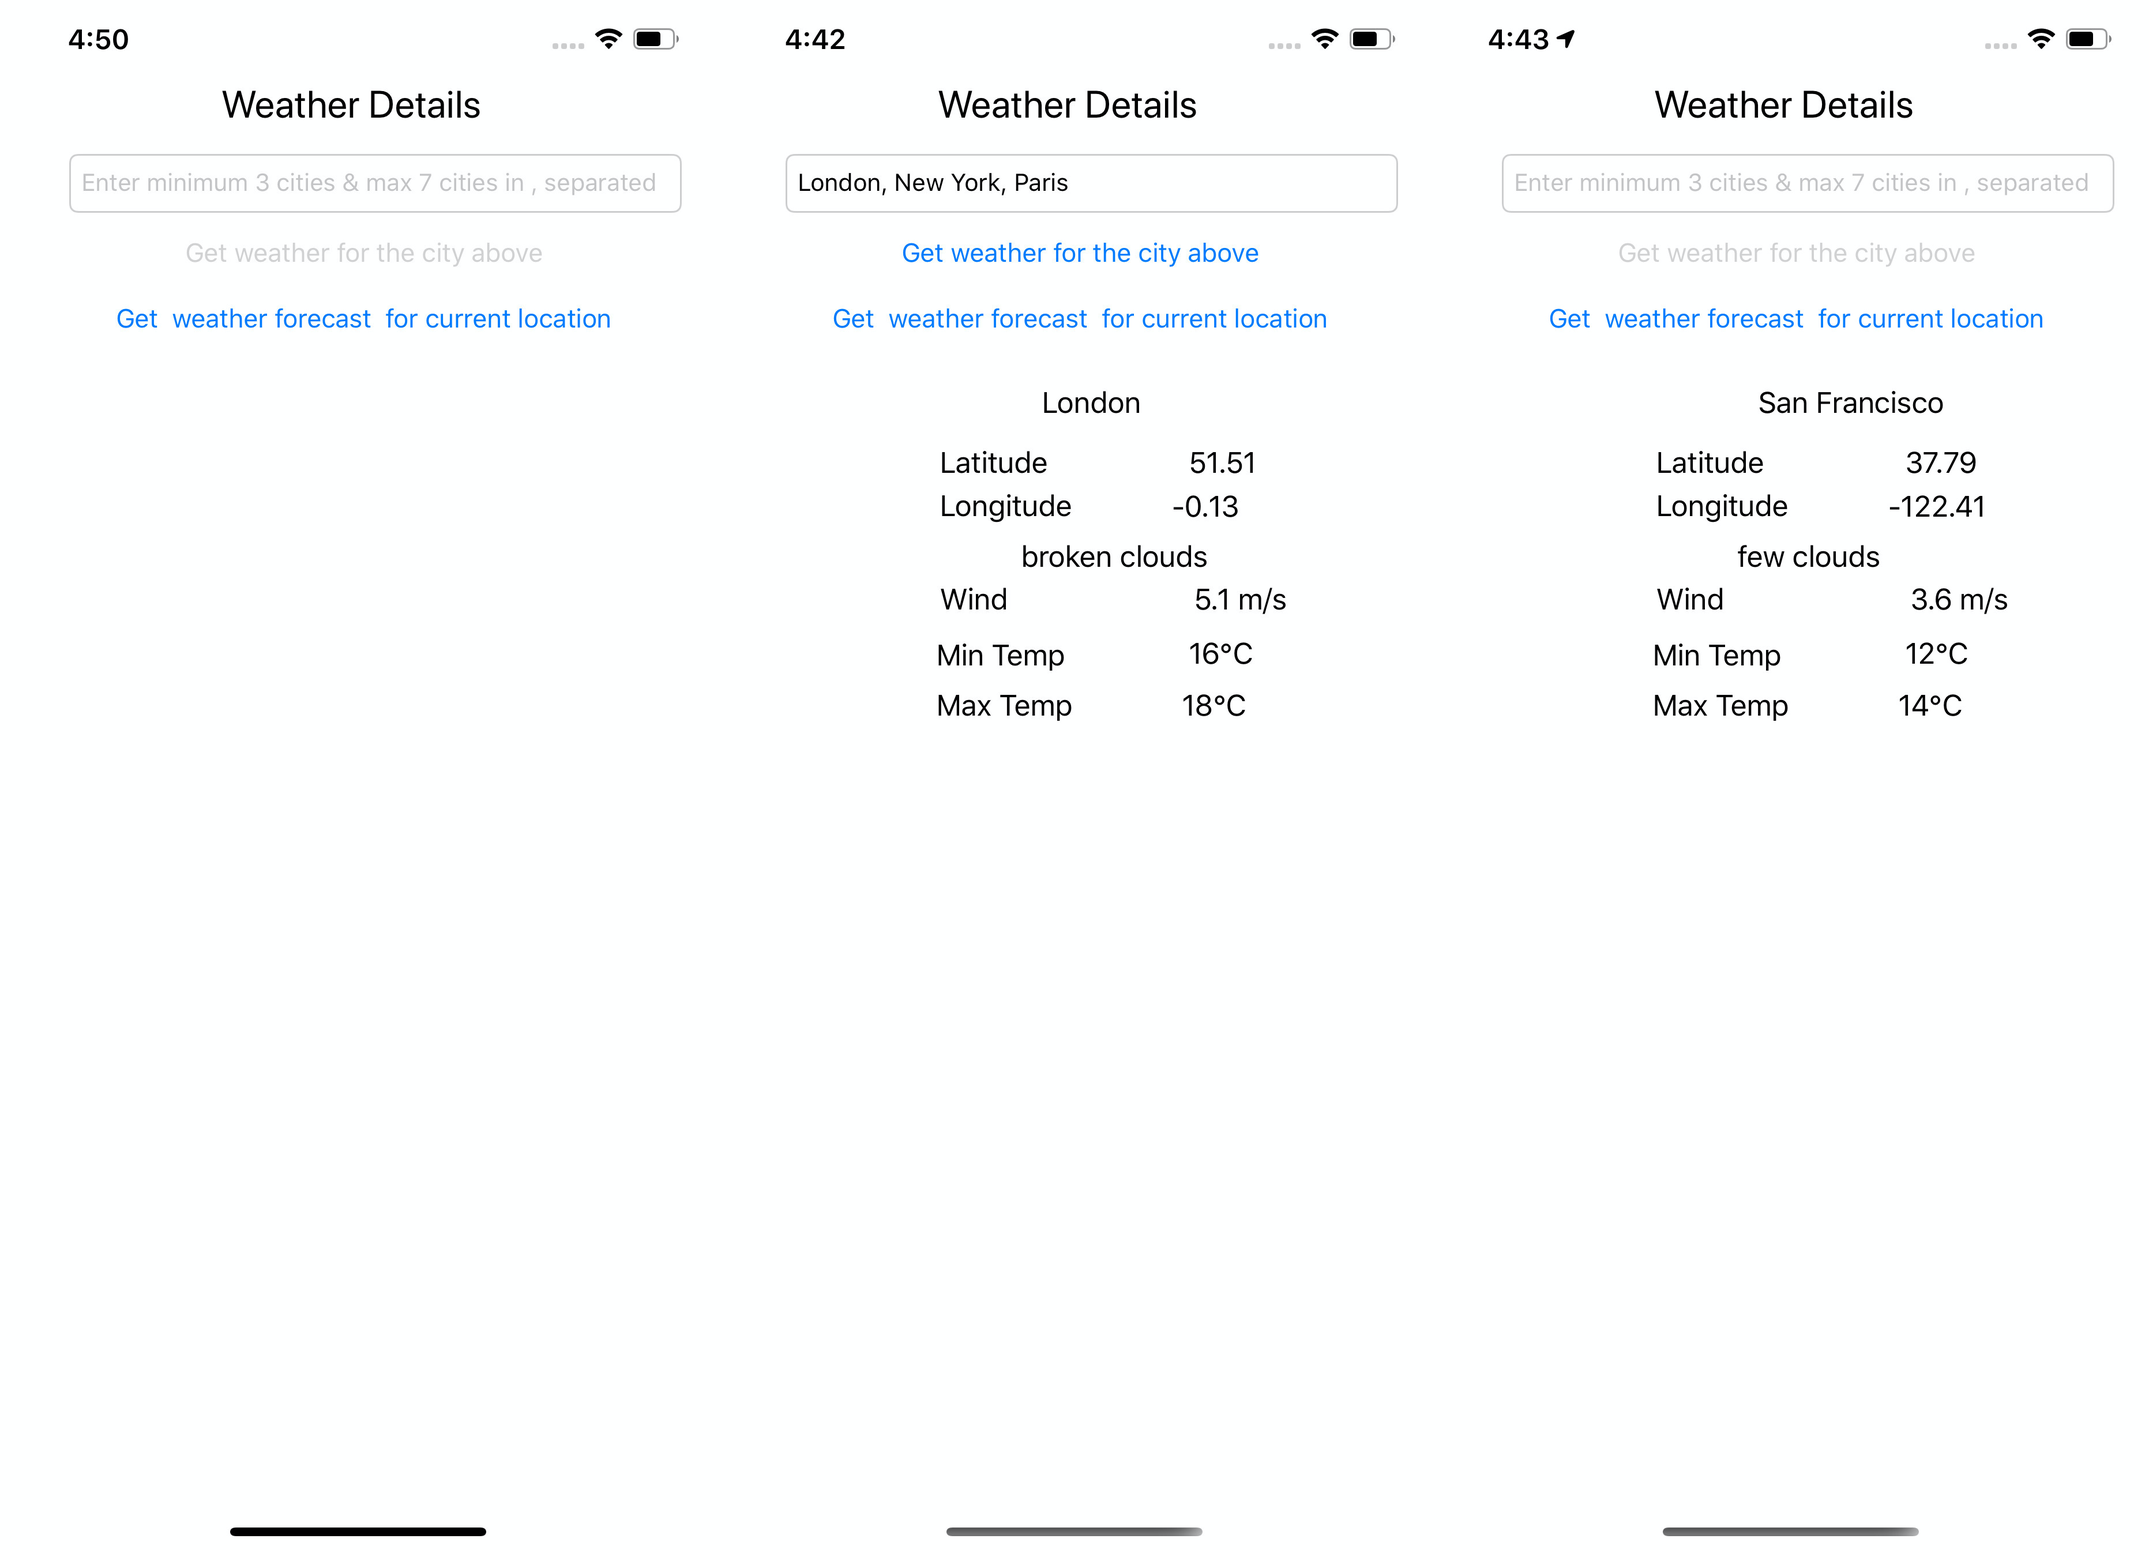
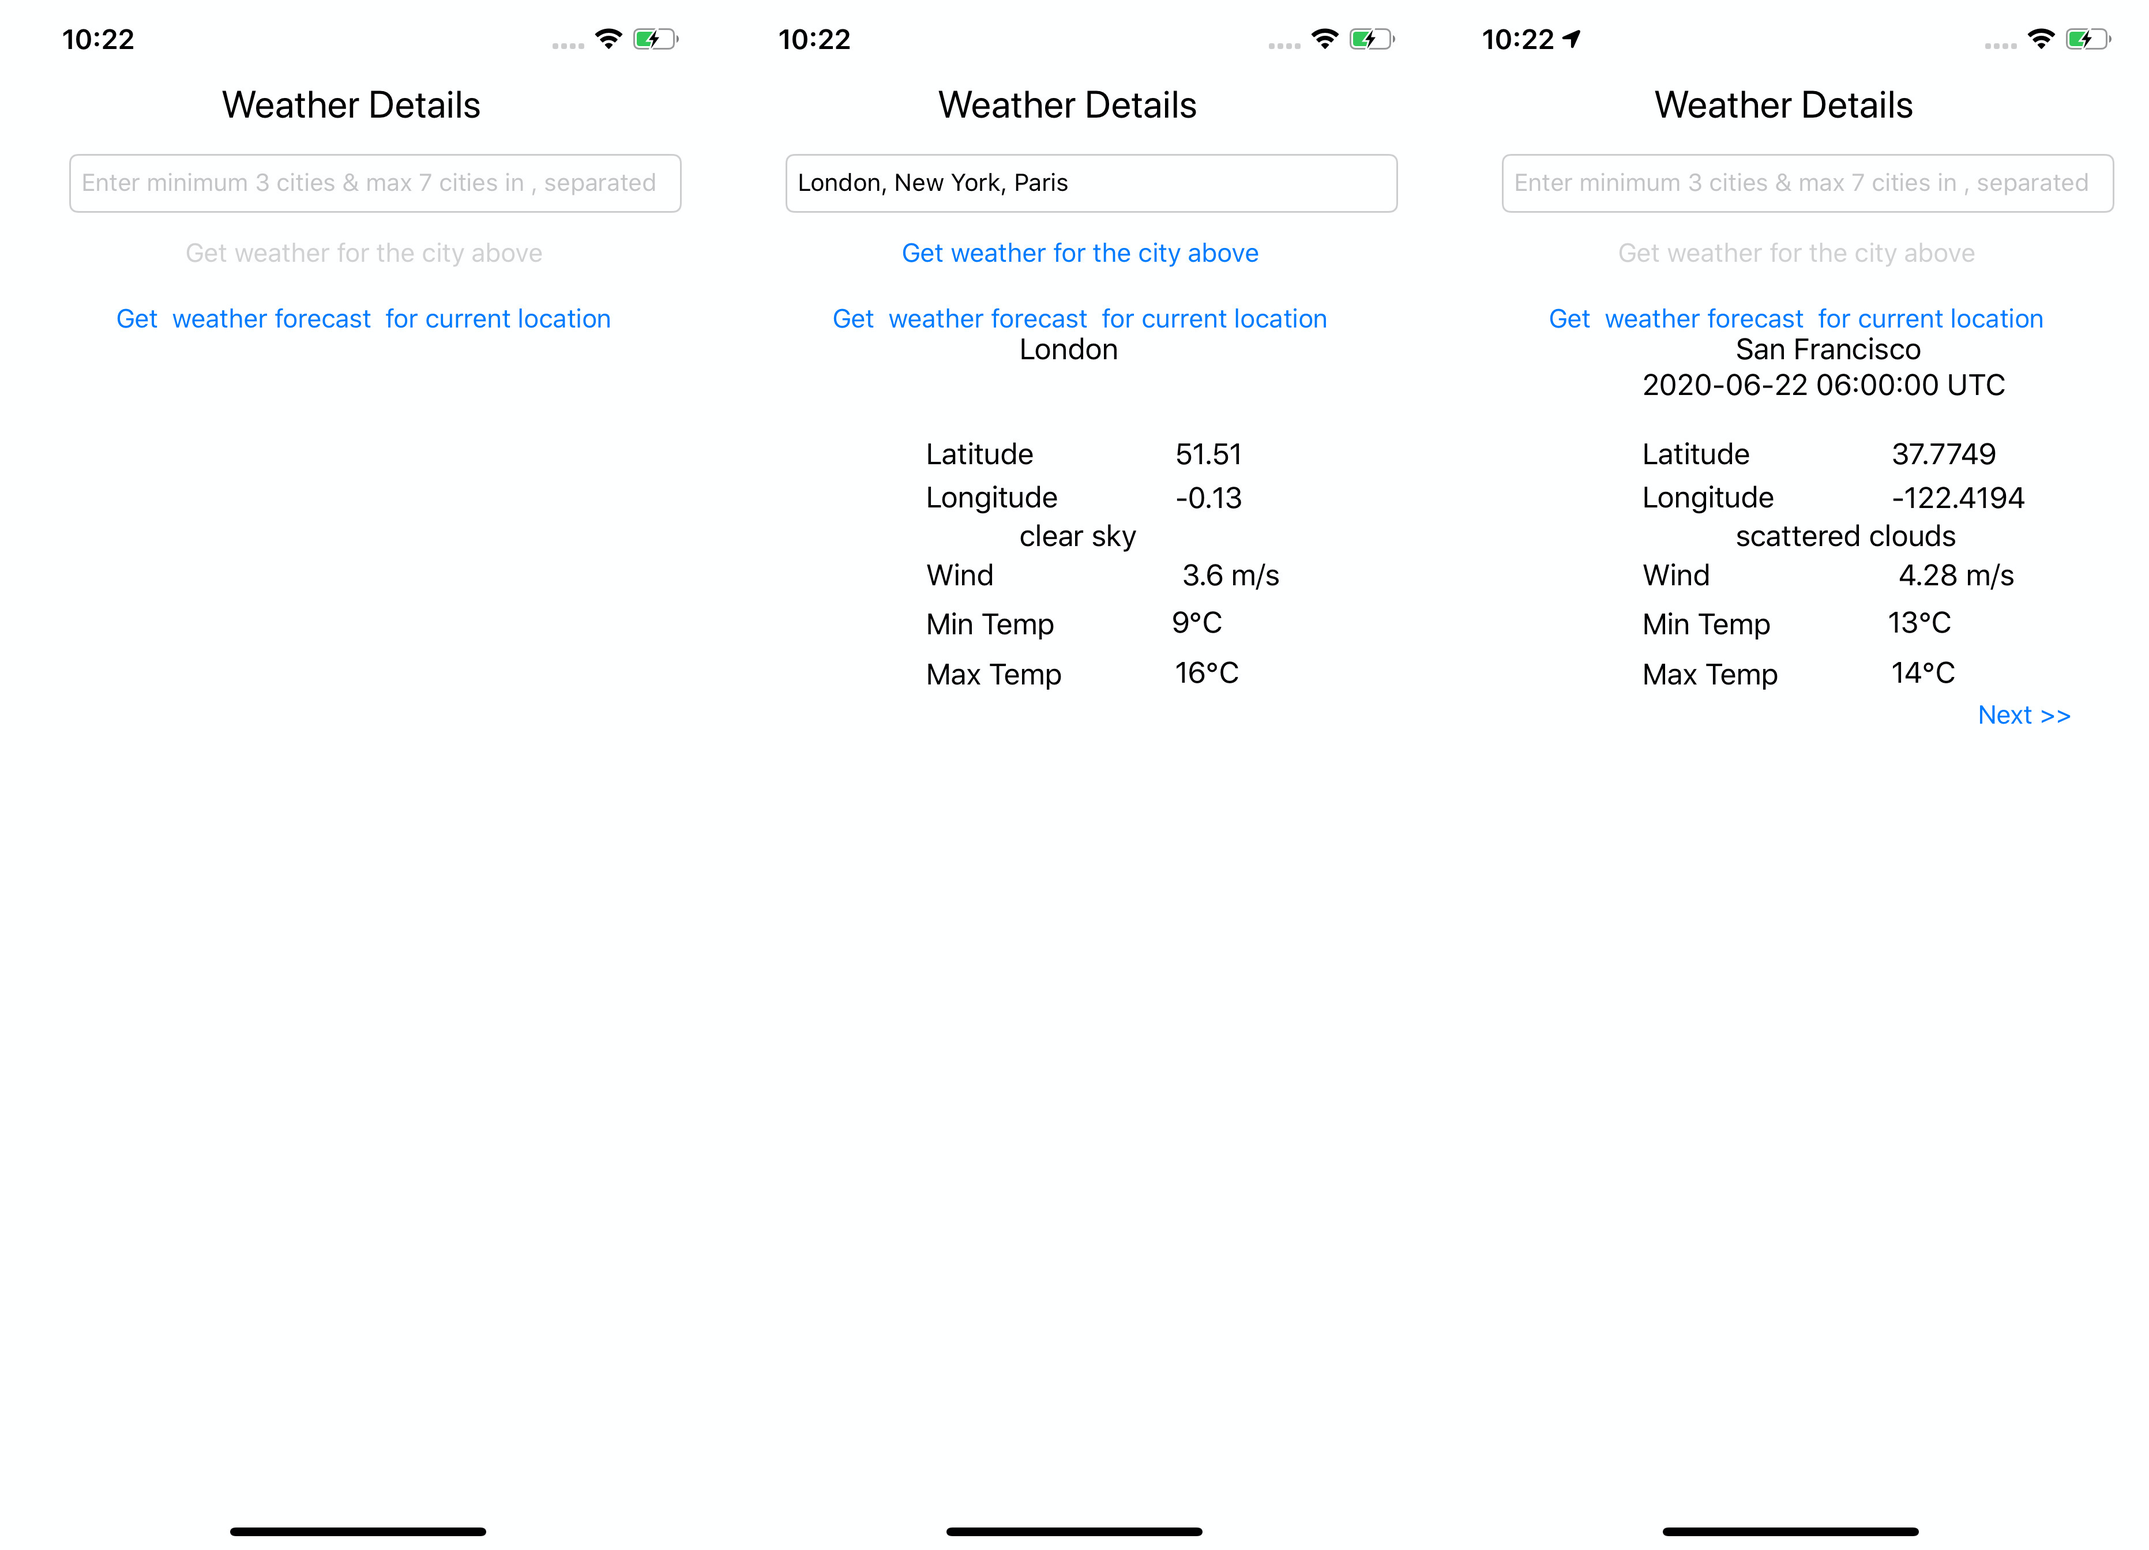
Added paging for forecast.

diff --git a/OpenWeather/Views/ViewController.swift b/OpenWeather/Views/ViewController.swift
@@ -10,9 +10,12 @@ import UIKit
 import CoreLocation
 
 class ViewController: UIViewController, WeatherGetterDelegate, UITextFieldDelegate {
-
+    
     var weather: WeatherGetter!
     let locationManager = CLLocationManager()
+    var forecastModel: ForecastModel!
+    var nextForecast: Int = 0
+    var cntForecast: Int!
     
     @IBOutlet weak var cityLabel: UILabel!
     @IBOutlet weak var minTempLabel: UILabel!
@@ -24,13 +27,16 @@ class ViewController: UIViewController, WeatherGetterDelegate, UITextFieldDelega
     @IBOutlet weak var latitudeLabel: UILabel!
     @IBOutlet weak var longitudeLabel: UILabel!
     @IBOutlet weak var getCurrentLocationButton: UIButton!
+    
+    @IBOutlet weak var getNextButton: UIButton!
+    @IBOutlet weak var dateLabel: UILabel!
     // static labels
     @IBOutlet weak var latitudeStaticLabel: UILabel!
     @IBOutlet weak var longitudeStaticLabel: UILabel!
     @IBOutlet weak var windStaticLabel: UILabel!
     @IBOutlet weak var minTempStaticLabel: UILabel!
     @IBOutlet weak var maxTempStaticLabel: UILabel!
-
+    
     override func viewDidLoad() {
         super.viewDidLoad()
         // Do any additional setup after loading the view.
@@ -49,70 +55,83 @@ class ViewController: UIViewController, WeatherGetterDelegate, UITextFieldDelega
         latitudeLabel.text = ""
         longitudeLabel.text = ""
         cityTextField.text = ""
+        dateLabel.text = ""
         cityTextField.placeholder = "Enter minimum 3 cities & max 7 cities in , separated"
         cityTextField.delegate = self
         cityTextField.enablesReturnKeyAutomatically = true
         getCityWeatherButton.isEnabled = false
+        getNextButton.setTitle("", for: .normal)
+        getNextButton.isEnabled = false
         
         hideStaticLabels(isHidden: true)
     }
-
+    
     // MARK: -
     
     // MARK: WeatherGetterDelegate methods
     // -----------------------------------
     
     func didGetWeather(weatherModel: WeatherModel) {
-      // This method is called asynchronously, which means it won't execute in the main queue.
-      // ALl UI code needs to execute in the main queue, which is why we're wrapping the code
-      // that updates all the labels in a dispatch_async() call.
-         DispatchQueue.main.async  {
+        // This method is called asynchronously, which means it won't execute in the main queue.
+        // ALl UI code needs to execute in the main queue, which is why we're wrapping the code
+        // that updates all the labels in a dispatch_async() call.
+        DispatchQueue.main.async  {
             self.hideStaticLabels(isHidden: false)
+            self.dateLabel.text = ""
+            self.getNextButton.setTitle("", for: .normal)
+            self.getNextButton.isEnabled = false
             self.getCurrentLocationButton.isEnabled = true
             self.cityLabel.text = weatherModel.name
             self.latitudeLabel.text = "\(weatherModel.coord.lat)"
             self.longitudeLabel.text = "\(weatherModel.coord.lon)"
             self.weatherLabel.text = weatherModel.weather.first?.weatherDescription
             self.minTempLabel.text = "\(Int(round(weatherModel.main.tempMinCelsius)))°C"
-             self.maxTempLabel.text = "\(Int(round(weatherModel.main.tempMaxCelsius)))°C"
+            self.maxTempLabel.text = "\(Int(round(weatherModel.main.tempMaxCelsius)))°C"
             self.windLabel.text = "\(weatherModel.wind.speed) m/s"
-      }
+        }
     }
-
+    
     func didGetForecast(forecastModel: ForecastModel) {
-      // This method is called asynchronously, which means it won't execute in the main queue.
-      // ALl UI code needs to execute in the main queue, which is why we're wrapping the code
-      // that updates all the labels in a dispatch_async() call.
-         DispatchQueue.main.async  {
+        // This method is called asynchronously, which means it won't execute in the main queue.
+        // ALl UI code needs to execute in the main queue, which is why we're wrapping the code
+        // that updates all the labels in a dispatch_async() call.
+        self.forecastModel = forecastModel
+        self.cntForecast = forecastModel.cnt
+        DispatchQueue.main.async  {
             self.hideStaticLabels(isHidden: false)
             self.getCurrentLocationButton.isEnabled = true
             self.cityLabel.text = forecastModel.city.name
+            self.dateLabel.text = "\(forecastModel.list.first?.dtTxt ?? "0-0-0 00:00:00") UTC"
             self.latitudeLabel.text = "\(forecastModel.city.coord.lat)"
             self.longitudeLabel.text = "\(forecastModel.city.coord.lon)"
             self.weatherLabel.text = forecastModel.list.first?.weather.first?.weatherDescription.rawValue
             self.minTempLabel.text = "\(Int(round((forecastModel.list.first?.main.tempMinCelsius)!)))°C"
             self.maxTempLabel.text = "\(Int(round((forecastModel.list.first?.main.tempMaxCelsius)!)))°C"
             self.windLabel.text = "\(forecastModel.list.first?.wind.speed ?? 0.0) m/s"
-      }
+            self.getNextButton.setTitle("Next >>", for: .normal)
+            self.getNextButton.isEnabled = true
+        }
     }
     
     func didNotGetWeather(error: Error) {
-      // This method is called asynchronously, which means it won't execute in the main queue.
-      // ALl UI code needs to execute in the main queue, which is why we're wrapping the call
-      // to showSimpleAlert(title:message:) in a dispatch_async() call.
-       DispatchQueue.main.async  {
-        self.showSimpleAlert(title: "Can't get the weather",
-                             message: "The weather service isn't responding.")
-      }
-      print("didNotGetWeather error: \(error)")
+        // This method is called asynchronously, which means it won't execute in the main queue.
+        // ALl UI code needs to execute in the main queue, which is why we're wrapping the call
+        // to showSimpleAlert(title:message:) in a dispatch_async() call.
+        DispatchQueue.main.async  {
+            self.showSimpleAlert(title: "Can't get the weather",
+                                 message: "The weather service isn't responding.")
+        }
+        print("didNotGetWeather error: \(error)")
     }
     
     // MARK: - Button events
-     // ---------------------
+    // ---------------------
+    
+    //when user tap on a button to get current weather
     @IBAction func getWeatherClicked(_ sender: Any) {
         guard let text = cityTextField.text, !text.isEmpty else {
-             return
-           }
+            return
+        }
         let cities = cityTextField.text?.split(separator: ",")
         if cities!.count >= 3 && cities!.count < 7 {
             weather.getWeatherByCity(city: (String((cities?.first)!).urlEncoded))
@@ -120,7 +139,19 @@ class ViewController: UIViewController, WeatherGetterDelegate, UITextFieldDelega
         else {
             self.showSimpleAlert(title: "Not enough cities", message: "Required number of cities is missing")
         }
-            
+        
+    }
+    
+    //when user tap on next button to get further forecast
+    @IBAction func getNextClicked(_ sender: Any) {
+        self.nextForecast += 1
+        if self.nextForecast < self.cntForecast, let forecastModel = self.forecastModel {
+            self.dateLabel.text = "\(forecastModel.list[nextForecast].dtTxt ) UTC"
+            self.weatherLabel.text = forecastModel.list[nextForecast].weather.first?.weatherDescription.rawValue
+            self.minTempLabel.text = "\(Int(round((forecastModel.list[nextForecast].main.tempMinCelsius))))°C"
+            self.maxTempLabel.text = "\(Int(round((forecastModel.list[nextForecast].main.tempMaxCelsius))))°C"
+            self.windLabel.text = "\(forecastModel.list[nextForecast].wind.speed ) m/s"
+        }
     }
     
     // when user tap on a button to get location
@@ -132,16 +163,16 @@ class ViewController: UIViewController, WeatherGetterDelegate, UITextFieldDelega
     
     func retriveCurrentLocation(){
         let status = CLLocationManager.authorizationStatus()
-
+        
         if(status == .denied || status == .restricted || !CLLocationManager.locationServicesEnabled()){
             // show alert to user telling them they need to allow location data to use some feature of your app
             return
         }
-
+        
         // if haven't show location permission dialog before, show it to user
         if(status == .notDetermined){
             locationManager.requestWhenInUseAuthorization()
-
+            
             // if you want the app to retrieve location data even in background, use requestAlwaysAuthorization
             // locationManager.requestAlwaysAuthorization()
             return
@@ -150,12 +181,12 @@ class ViewController: UIViewController, WeatherGetterDelegate, UITextFieldDelega
         // at this point the authorization status is authorized
         // request location data once
         locationManager.requestLocation()
-      
+        
     }
     
     // Enable the "Get weather for the city above" button
-     // if the city text field contains any text,
-     // disable it otherwise.
+    // if the city text field contains any text,
+    // disable it otherwise.
     func textField(_ textField: UITextField, shouldChangeCharactersIn range: NSRange, replacementString string: String) -> Bool {
         let currentText = textField.text ?? ""
         let prospectiveText = (currentText as NSString).replacingCharacters(
@@ -166,15 +197,15 @@ class ViewController: UIViewController, WeatherGetterDelegate, UITextFieldDelega
         return true
     }
     // Pressing the clear button on the text field (the x-in-a-circle button
-     // on the right side of the field)
+    // on the right side of the field)
     func textFieldShouldClear(_ textField: UITextField) -> Bool {
-           // Even though pressing the clear button clears the text field,
-         // this line is necessary. I'll explain in a later blog post.
-         textField.text = ""
-         
+        // Even though pressing the clear button clears the text field,
+        // this line is necessary. I'll explain in a later blog post.
+        textField.text = ""
+        
         getCityWeatherButton.isEnabled = false
         getCurrentLocationButton.isEnabled = true
-         return true
+        return true
     }
     
     // Pressing the return button on the keyboard should be like
@@ -184,27 +215,27 @@ class ViewController: UIViewController, WeatherGetterDelegate, UITextFieldDelega
         getWeatherClicked(getCityWeatherButton as Any)
         return true
     }
-      // MARK: - Utility methods
-      // -----------------------
-
+    // MARK: - Utility methods
+    // -----------------------
+    
     func showSimpleAlert(title: String, message: String) {
         let alert = UIAlertController(
-          title: title,
-          message: message,
-          preferredStyle: .alert
+            title: title,
+            message: message,
+            preferredStyle: .alert
         )
         let okAction = UIAlertAction(
-          title: "OK",
-          style:  .default,
-          handler: nil
+            title: "OK",
+            style:  .default,
+            handler: nil
         )
         alert.addAction(okAction)
         present(
-          alert,
-          animated: true,
-          completion: nil
+            alert,
+            animated: true,
+            completion: nil
         )
-      }
+    }
     
     func hideStaticLabels(isHidden: Bool)  {
         latitudeStaticLabel.isHidden = isHidden
@@ -213,30 +244,30 @@ class ViewController: UIViewController, WeatherGetterDelegate, UITextFieldDelega
         minTempStaticLabel.isHidden = isHidden
         maxTempStaticLabel.isHidden = isHidden
     }
-      
-    }
+    
+}
 
 extension ViewController: CLLocationManagerDelegate {
-  // handle delegate methods of location manager here
+    // handle delegate methods of location manager here
     // called when the authorization status is changed for the core location permission
-       func locationManager(_ manager: CLLocationManager, didChangeAuthorization status: CLAuthorizationStatus) {
-           print("location manager authorization status changed")
-           
-           switch status {
-           case .authorizedAlways:
-               print("user allow app to get location data when app is active or in background")
-           case .authorizedWhenInUse:
-               print("user allow app to get location data only when app is active")
-           case .denied:
-               print("user tap 'disallow' on the permission dialog, cant get location data")
-           case .restricted:
-               print("parental control setting disallow location data")
-           case .notDetermined:
-               print("the location permission dialog haven't shown before, user haven't tap allow/disallow")
-           @unknown default:
+    func locationManager(_ manager: CLLocationManager, didChangeAuthorization status: CLAuthorizationStatus) {
+        print("location manager authorization status changed")
+        
+        switch status {
+        case .authorizedAlways:
+            print("user allow app to get location data when app is active or in background")
+        case .authorizedWhenInUse:
+            print("user allow app to get location data only when app is active")
+        case .denied:
+            print("user tap 'disallow' on the permission dialog, cant get location data")
+        case .restricted:
+            print("parental control setting disallow location data")
+        case .notDetermined:
+            print("the location permission dialog haven't shown before, user haven't tap allow/disallow")
+        @unknown default:
             print("the location permission isn't valid")
         }
-       }
+    }
     
     func locationManager(_ manager: CLLocationManager, didUpdateLocations locations: [CLLocation]) {
         // .requestLocation will only pass one location to the locations array
@@ -249,7 +280,7 @@ extension ViewController: CLLocationManagerDelegate {
     func locationManager(_ manager: CLLocationManager, didFailWithError error: Error) {
         // might be that user didn't enable location service on the device
         // or there might be no GPS signal inside a building
-      
+        
         // might be a good idea to show an alert to user to ask them to walk to a place with GPS signal
     }
 }
